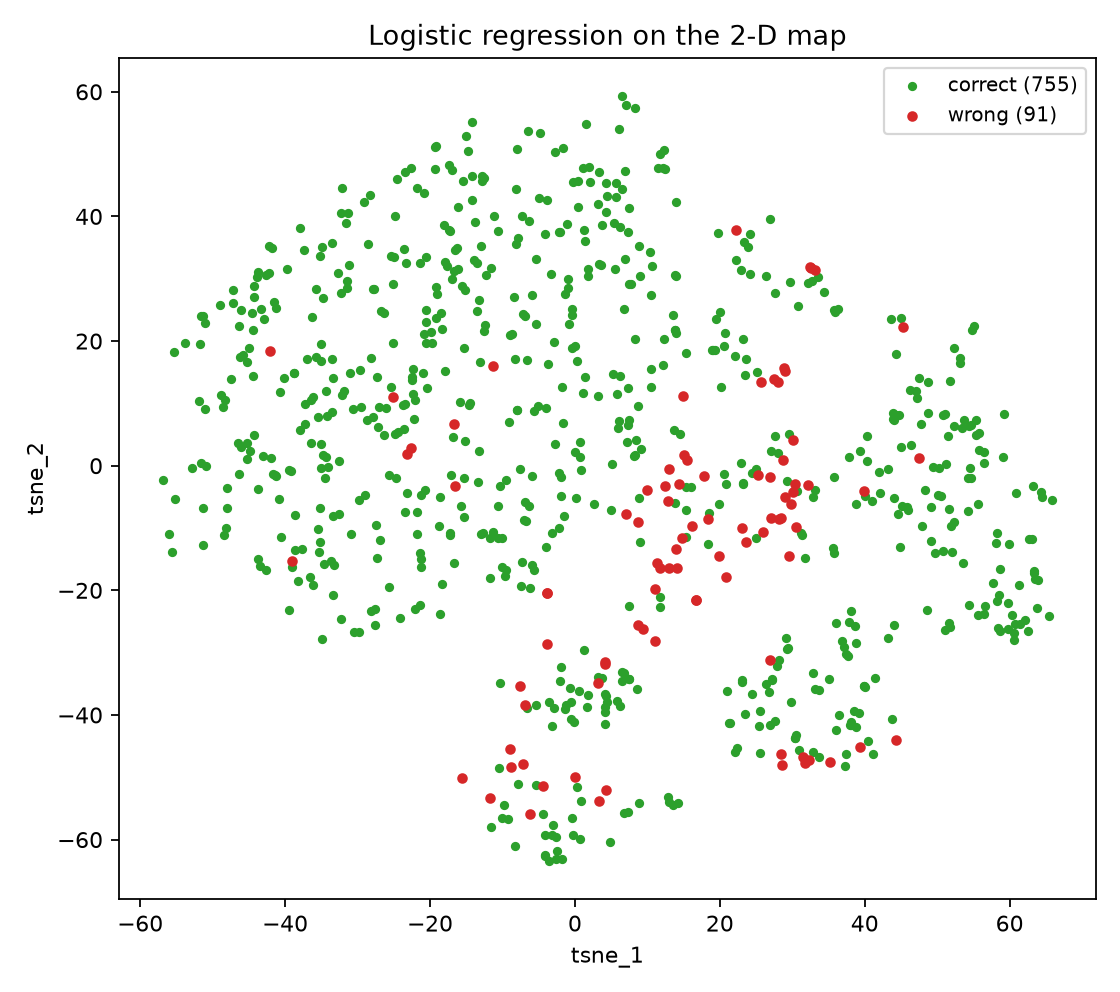
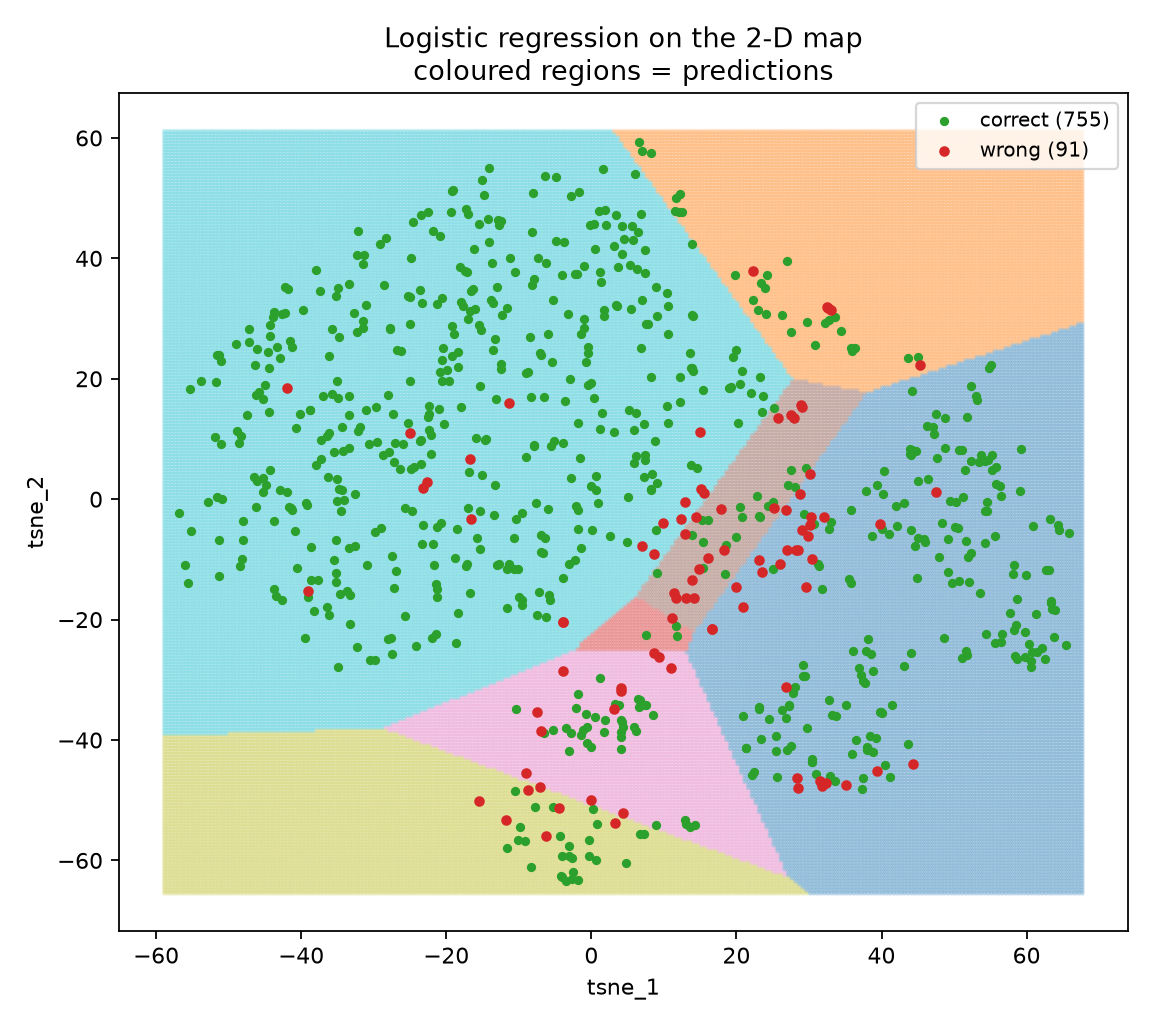
Add grid-scatter decision regions; make Expert a 2-D model comparison
- Advanced: build the decision-region grid for students (meshgrid -> ravel ->
  np.c_ -> (n_points, 2)) with tips, then students predict and scatter it.
- Expert: drop the 512-d features entirely; compare logistic regression, k-NN
  and a random forest on the 2-D map, one green/red error panel per model, plus
  the same grid-scatter decision regions.
- Expert package shrinks from ~6.4 MB to ~215 KB (2-D CSVs only).
- Add aurora_errors_models.png and a grid-backed aurora_errors_2d.png; update
  the level decks and the intro level table.

diff --git a/notebooks/03/06_project_expert.py b/notebooks/03/06_project_expert.py
@@ -7,8 +7,9 @@
 # ///
 #
 # On-site project — Level 4 (Expert) task slides.
-# Fit the same model on the 512-d features and on the 2-D map, then plot both
-# models' errors on the map (green = correct, red = wrong).
+# Compare logistic regression, k-NN and a random forest on the 2-D map; plot each
+# model's errors (green = correct, red = wrong) and its decision regions by
+# scattering a grid of points.
 #
 # Run locally with `marimo edit notebooks/03/06_project_expert.py`
 # or export to WASM for GitHub Pages (see .github/workflows/publish-slides.yml).
@@ -43,9 +44,9 @@ def _(mo):
         r"""
         # Project · Level 4 — Expert
 
-        ## One model, two inputs — and where each fails
+        ## Compare classifiers on the 2-D map
 
-        🔴 **model comparison · error analysis**
+        🔴 **model comparison · error analysis · decision regions**
 
         **Machine Learning with Python** — On-site project (Oct 23–24)
 
@@ -61,18 +62,20 @@ def _(mo):
         r"""
         ## Your mission
 
-        Level 3 used only the **2-D map**. Now compare it with the **full 512-d
-        features**.
+        Level 3 trained **one** model on the 2-D map. Now compare **three** — and
+        find out what each one gets wrong.
 
-        1. Take **two representations** of every image: the **512-d ResNet
-           features** and the **2-D t-SNE map**.
-        2. Fit the **same model** on each — a logistic regression. The code is
-           **your job**; the notebook links to the sklearn docs.
-        3. **Compare** the two accuracies: how much does the 2-D map cost us?
-        4. **Plot both models' mistakes on the same map**: **green** = correct,
-           **red** = wrong. Where does each representation fail?
+        1. Fit **three classifiers** on the same 2-D data: **logistic regression**,
+           **k-NN** and a **random forest**. The code is **your job**; the
+           notebook links to the sklearn docs.
+        2. **Compare** their accuracy on the test set.
+        3. **Plot every model's mistakes**: one panel per model, **green** =
+           correct, **red** = wrong.
+        4. **Draw the decision regions** of one model by predicting a **grid** of
+           points and **scattering** them — no `contourf`.
 
-        The point: **the representation matters as much as the model.**
+        The point: **different models fail in different places.** We stay in 2-D,
+        because that is the only space we can actually draw.
 
         <div style="position:fixed;bottom:12px;left:16px;font-size:13px;color:#888;font-family:system-ui,sans-serif;">2 / 8</div>
         """
@@ -89,17 +92,17 @@ def _(mo):
         ```
         expert/
           getting_started_expert.ipynb   ← start here
-          data/features_resnet18.npz     ← 512-d features + labels (precomputed)
-          data/aurora_2d_train.csv       ← the same images in the 2-D map
-          data/aurora_2d_test.csv
+          data/aurora_2d_train.csv       ← training images in the 2-D map
+          data/aurora_2d_test.csv        ← test images in the same map
           data/dataset_info.json
           README.md
         ```
 
-        `features_resnet18.npz` holds `z_train`, `y_train`, `z_test`, `y_test`
-        (features are `(3000, 512)` and `(846, 512)`).
+        Two CSVs, one row per image: `tsne_1`, `tsne_2` (the coordinates),
+        `label` (0–6), `class_name`, and a few extra columns.
 
-        Everything runs with **`scikit-learn`** — no PyTorch, no GPU.
+        Everything runs with **`scikit-learn`** — no PyTorch, no GPU, no 512-d
+        features.
 
         <div style="position:fixed;bottom:12px;left:16px;font-size:13px;color:#888;font-family:system-ui,sans-serif;">3 / 8</div>
         """
@@ -111,25 +114,23 @@ def _(mo):
 def _(mo):
     mo.md(
         r"""
-        ## The code — loading both representations
+        ## The code — loading the map
 
         ```python
-        import numpy as np
         import pandas as pd
 
-        f = np.load("data/features_resnet18.npz")
-        z_train, y_train = f["z_train"], f["y_train"]
-        z_test,  y_test  = f["z_test"],  f["y_test"]
+        train = pd.read_csv("data/aurora_2d_train.csv")
+        test  = pd.read_csv("data/aurora_2d_test.csv")
 
-        d2_train = pd.read_csv("data/aurora_2d_train.csv")
-        d2_test  = pd.read_csv("data/aurora_2d_test.csv")
-        X_train2 = d2_train[["tsne_1", "tsne_2"]].to_numpy()
-        X_test2  = d2_test[["tsne_1", "tsne_2"]].to_numpy()
+        X_train = train[["tsne_1", "tsne_2"]].to_numpy()
+        y_train = train["label"].to_numpy()
+        X_test  = test[["tsne_1", "tsne_2"]].to_numpy()
+        y_test  = test["label"].to_numpy()
         ```
 
-        - `z_*` are the **512-d features**; `X_*2` are the **2-D coordinates** of the same images.
-        - the labels are shared, so the two representations are directly comparable.
-        - **your turn:** fit a logistic regression on each and keep `pred_512` / `pred_2d`.
+        - one row per image: `tsne_1`, `tsne_2` are the coordinates, `label` is the class.
+        - all three models get the **same** `X_train` / `y_train`.
+        - **your turn:** fit logistic regression, k-NN and a forest; keep the predictions in `preds`.
 
         <div style="position:fixed;bottom:12px;left:16px;font-size:13px;color:#888;font-family:system-ui,sans-serif;">4 / 8</div>
         """
@@ -143,11 +144,12 @@ def _(mo):
         r"""
         ## The tasks (in the notebook)
 
-        1. **Load** the 512-d features and the 2-D coordinates.
-        2. **Your turn:** fit the **same model twice** (512-d and 2-D) → `pred_512`, `pred_2d`.
-        3. **Compare** the two accuracies — how much does 2-D cost?
-        4. **Your turn:** plot both models' errors on the map, **green** = correct, **red** = wrong.
-        5. **Your turn (more):** swap in a random forest or k-NN.
+        1. **Load** the 2-D coordinates.
+        2. **Your turn:** fit **logistic regression, k-NN and a random forest** → `preds`.
+        3. **Compare** the three accuracies.
+        4. **Your turn:** one green/red error panel per model.
+        5. **Your turn:** predict a **grid** of points and scatter it → decision regions.
+        6. **Your turn (more):** which model has the simplest regions? The best accuracy?
 
         <div style="position:fixed;bottom:12px;left:16px;font-size:13px;color:#888;font-family:system-ui,sans-serif;">5 / 8</div>
         """
@@ -159,10 +161,10 @@ def _(mo):
 def _(mo):
     mo.vstack(
         [
-            mo.md(r"""## The target — the same map, two error patterns"""),
+            mo.md(r"""## The target — three models, three error patterns"""),
             mo.image(
-                str(mo.notebook_location() / "public" / "aurora_errors_2d_vs_512.png"),
-                width="820px",
+                str(mo.notebook_location() / "public" / "aurora_errors_models.png"),
+                width="860px",
             ),
             mo.md(r"""<div style="position:fixed;bottom:12px;left:16px;font-size:13px;color:#888;font-family:system-ui,sans-serif;">6 / 8</div>"""),
         ]
@@ -178,12 +180,12 @@ def _(mo):
 
         - **Accuracy lies on imbalanced data.** *Patchy* dominates, so a lazy model
           looks good. Also report **macro F1**.
-        - **Same model, different representation.** If 512-d wins, that is the
-          **representation**, not a better model.
+        - **More complex is not always better.** k-NN and forests can carve finer
+          regions but still lose on the rare classes.
         - **Green/red hides *which* class is wrong.** Follow it with a confusion
           matrix.
         - **The t-SNE coordinates leak.** They were fitted on train and test
-          together, so the 2-D scores look better than for genuinely new images.
+          together, so these scores look better than for genuinely new images.
         - **Do not tune on the test set.** Use cross-validation on the training
           data, then touch the test set **once**.
 
@@ -197,12 +199,12 @@ def _(mo):
 def _(mo):
     mo.md(
         r"""
-        ## Nice work — comparing two representations
+        ## Nice work — a model comparison
 
-        - fitted the **same model** on the **512-d features** and on the **2-D map**,
-        - measured how much accuracy the 2-D map costs,
-        - plotted both models' errors on the same map, **green/red**,
-        - saw **where** each representation fails.
+        - fitted **three classifiers** on the same 2-D data,
+        - compared their accuracy,
+        - plotted every model's mistakes, **green/red**,
+        - drew the decision regions with a **grid + scatter** (no `contourf`).
 
         **Done? Level 5 (God-like)** takes a trained model out of the notebook and
         points it at the **live sky**.

diff --git a/notebooks/03/05_project_advanced.py b/notebooks/03/05_project_advanced.py
@@ -71,7 +71,9 @@ def _(mo):
         2. **Classify every test image** and measure accuracy / macro F1.
         3. **Plot every test point**: **green** if the prediction is correct,
            **red** if it is wrong.
-        4. Read the red points: which classes does the 2-D map confuse?
+        4. **Draw the decision regions** by predicting a **grid** of points and
+           **scattering** them — no `contourf`.
+        5. Read the red points: which classes does the 2-D map confuse?
 
         This connects the **supervised models from Day 1** to the features from
         Day 3.
@@ -147,7 +149,9 @@ def _(mo):
            The notebook links to the sklearn docs.
         3. **Score** with **accuracy** and **macro F1**.
         4. **Your turn:** colour every test point **green** (correct) / **red** (wrong).
-        5. **Your turn (more):** which classes have the most red points? Try
+        5. **Your turn:** the **grid is built for you** — predict it and `scatter`
+           it to see the decision regions.
+        6. **Your turn (more):** which classes have the most red points? Try
            `class_weight="balanced"`.
 
         <div style="position:fixed;bottom:12px;left:16px;font-size:13px;color:#888;font-family:system-ui,sans-serif;">5 / 9</div>
@@ -160,7 +164,7 @@ def _(mo):
 def _(mo):
     mo.vstack(
         [
-            mo.md(r"""## The target — green = correct, red = wrong"""),
+            mo.md(r"""## The target — regions + green/red errors"""),
             mo.image(
                 str(mo.notebook_location() / "public" / "aurora_errors_2d.png"),
                 width="680px",
@@ -222,10 +226,10 @@ def _(mo):
         - trained a **logistic regression** on the 2-D coordinates,
         - read off **accuracy** and **macro F1**,
         - plotted every test point **green/red** by whether it was right,
+        - drew the decision regions with a **grid + scatter** (no `contourf`),
         - saw *which* images the 2-D map costs us.
 
-        **Done? Level 4 (Expert)** uses the **full 512-d features** and compares
-        the errors of the two representations.
+        **Done? Level 4 (Expert)** compares **three models** on the same map.
 
         <div style="position:fixed;bottom:12px;left:16px;font-size:13px;color:#888;font-family:system-ui,sans-serif;">9 / 9</div>
         """

diff --git a/notebooks/03/00_aurora_project.py b/notebooks/03/00_aurora_project.py
@@ -452,7 +452,7 @@ def _(mo):
         | **1 · Beginner** 🟢 | recreate the t-SNE figure (Fig 5) | loading data, plotting, visualising |
         | **2 · Intermediate** 🟡 | reduce the 512-d features to 2-D with **PCA** | PCA, plotting |
         | **3 · Advanced** 🔴 | train a classifier on the 2-D map, find its mistakes | classification, evaluation |
-        | **4 · Expert** 🔴 | 512-d vs 2-D: compare accuracy and **errors** | model comparison, error analysis |
+        | **4 · Expert** 🔴 | compare classifiers on the 2-D map, find their **errors** | model comparison, error analysis |
         | **5 · God-like** ⚫ | classify **live** images from the Kiruna sky cam | the whole pipeline, end to end |
 
         You may **start at any level**. All levels use the same data and the same
